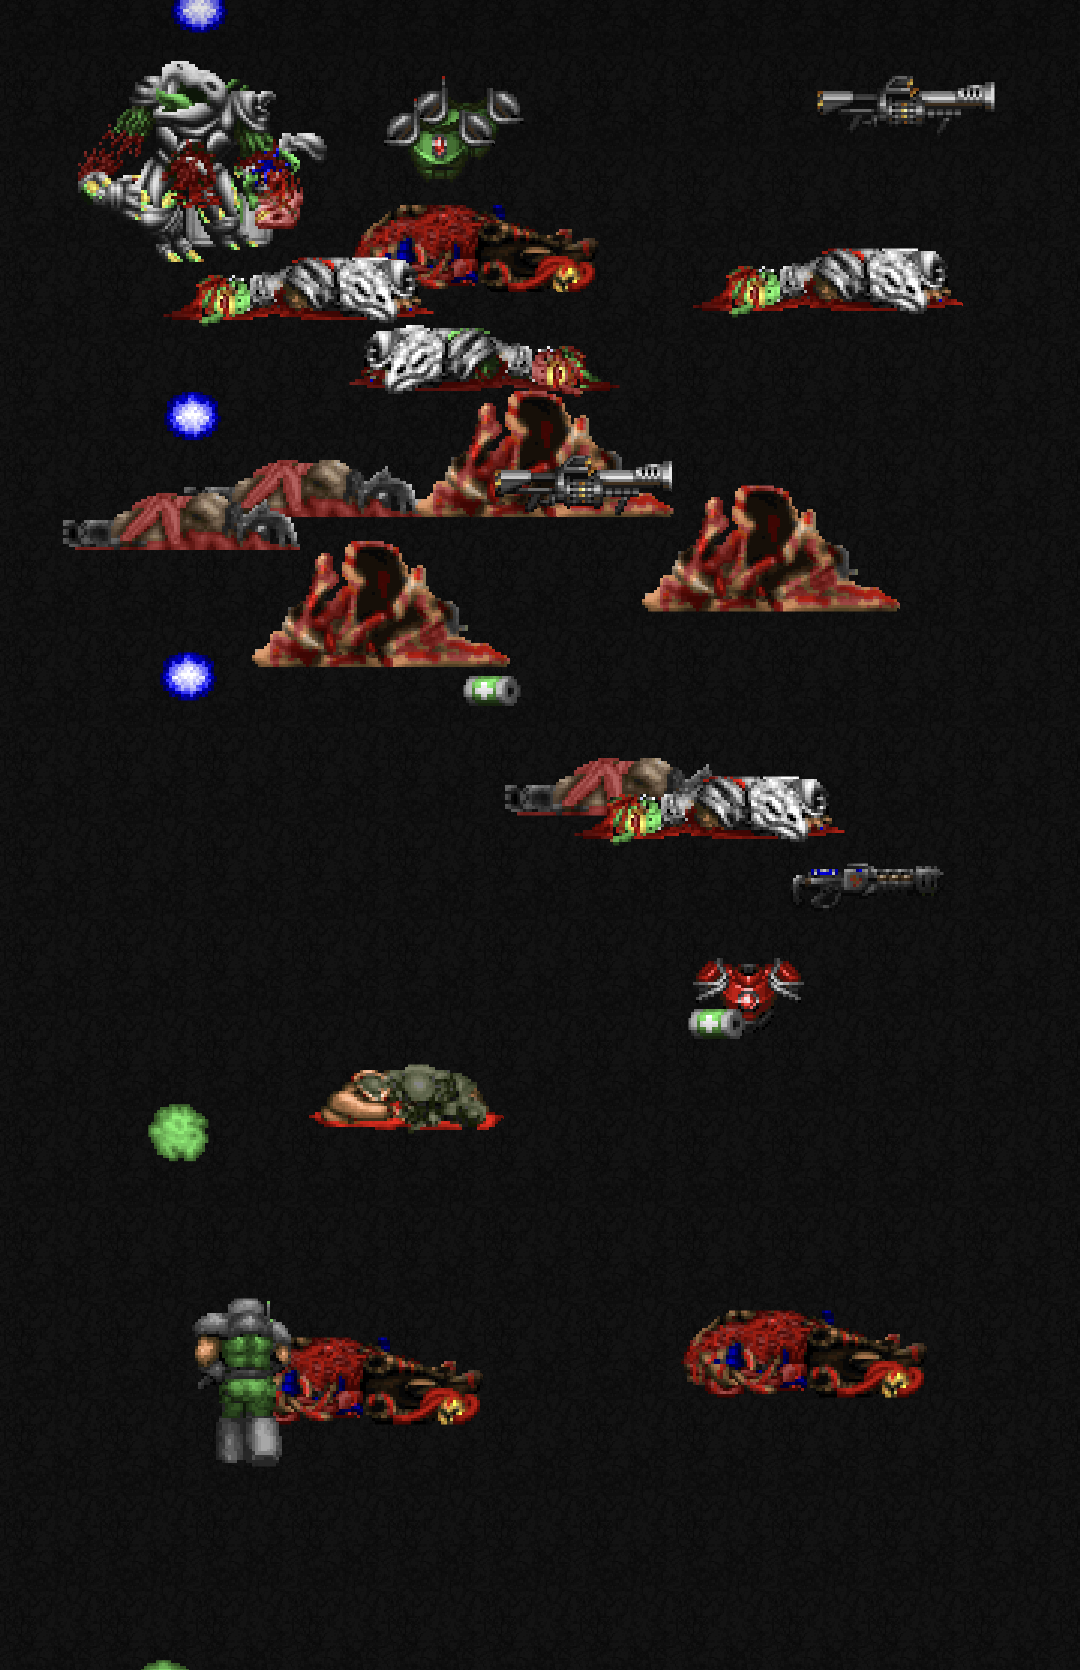
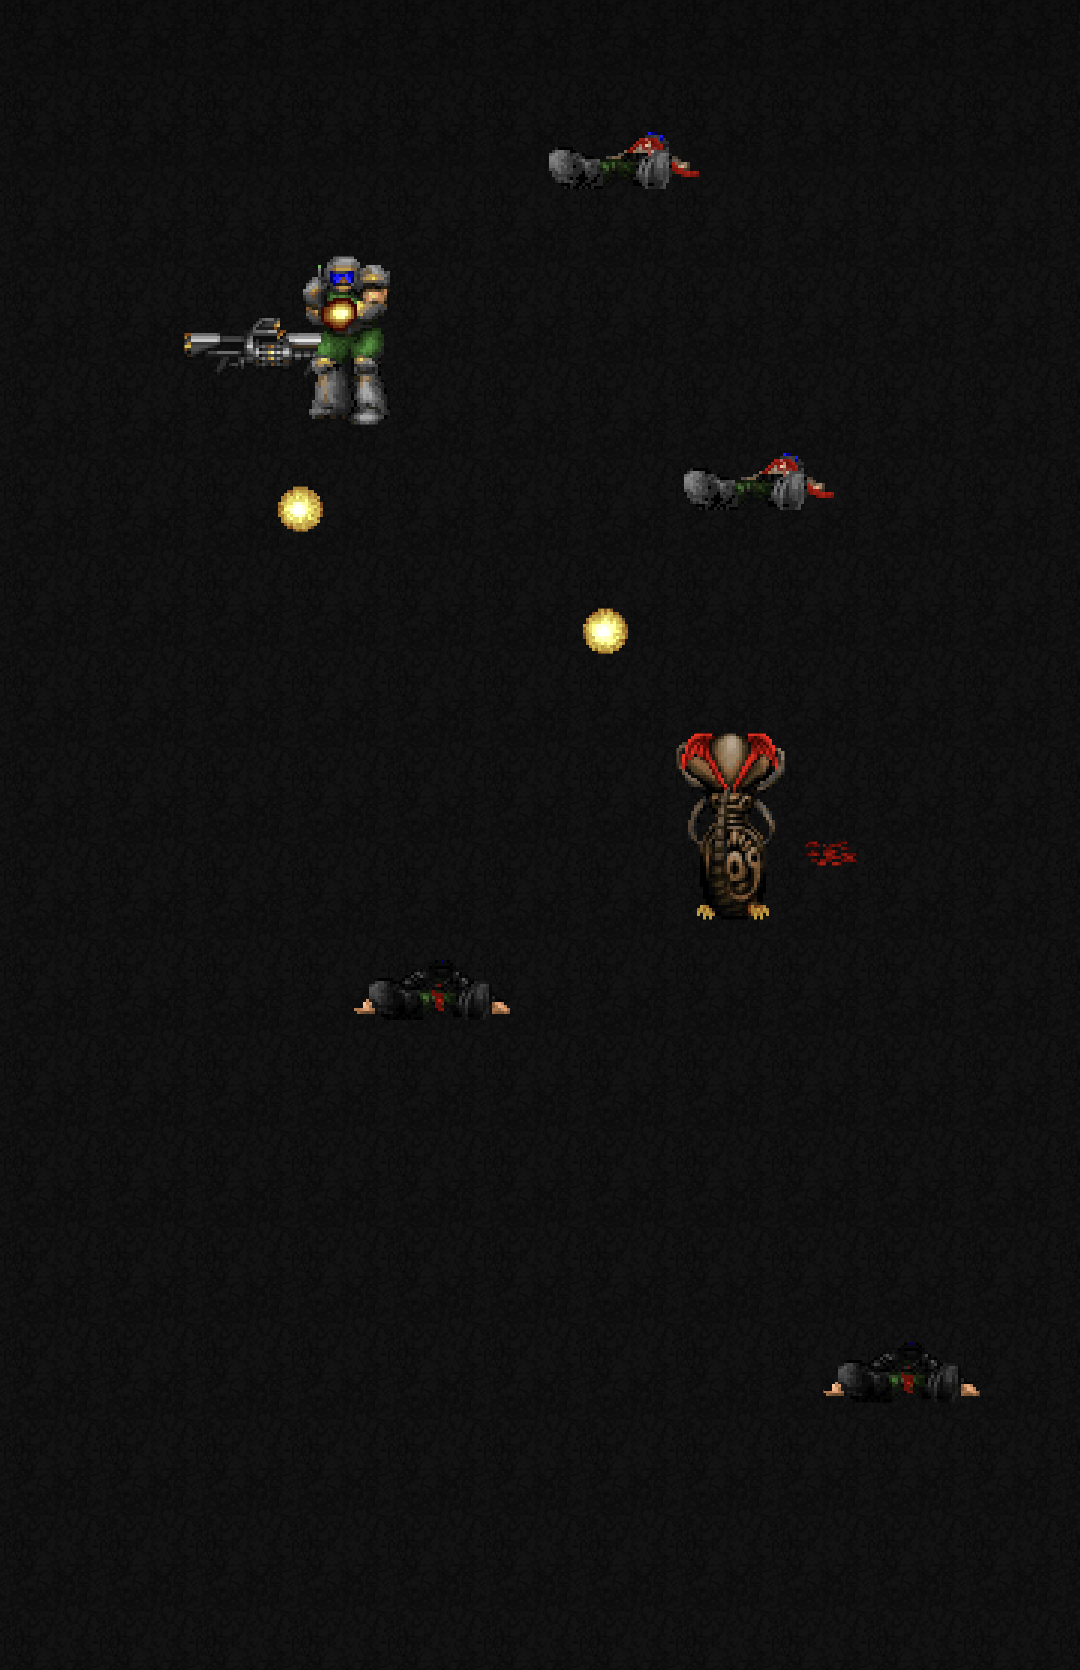
The name in the pictures is the name of the app
The screenshots still showed "Freedoom Live Wallpaper", version 0.6, which was
the one place the old name survived where anyone would actually look. Both are
re-shot from the phone at their previous sizes, and the README alt text says
what the new scene shows.

NOTICE.md claimed more derivation than is left: the rebalance replaced health,
missile damage and the random damage formulas with figures of ours, so the
table listed as taken what is no longer there. It now lists what is taken and
says plainly what is not.

The last three log tags and the engine class still read FreedoomLW.

diff --git a/app/src/main/java/io/github/massimonastasi/proflw/ProfWallpaperService.kt b/app/src/main/java/io/github/massimonastasi/proflw/ProfWallpaperService.kt
@@ -1,4 +1,4 @@
-/*
+/*
  * Prof Live Wallpaper
  * Copyright (C) 2026 Massimo Nastasi
  *
@@ -43,7 +43,7 @@ import kotlin.math.abs
 const val TICRATE = 35
 
 
-private const val TAG = "FreedoomLW"
+private const val TAG = "ProfLW"
 
 class ProfWallpaperService : WallpaperService() {
 
@@ -66,7 +66,7 @@ class ProfWallpaperService : WallpaperService() {
      *
      * Health is the blue and armour the green, matching PALETTE_HEALTH and PALETTE_ARMOR.
      * These two defaults used to hold the opposite pair, which no drawn frame could reveal
-     * because the readout is skipped entirely when the numerals fail to load — wrong in a
+     * because the readout is skipped entirely when the numerals fail to load â€” wrong in a
      * place that never shows is still wrong, and it would have surfaced the moment anything
      * else started using them.
      */
@@ -107,7 +107,7 @@ class ProfWallpaperService : WallpaperService() {
      * Loads the user's IWAD when there is one, and the bundled assets otherwise.
      *
      * Everything the scene draws comes from the same file, so swapping it swaps the whole
-     * look at once — sprites, palette, floors and the readout numerals. That is why nothing
+     * look at once â€” sprites, palette, floors and the readout numerals. That is why nothing
      * here has a per-IWAD compatibility table: the file declares what it contains and the
      * loader takes what it finds.
      */
@@ -205,7 +205,7 @@ class ProfWallpaperService : WallpaperService() {
      * the contrast behind the icons stays put.
      *
      * Each falls back down a shared chain, because a user-supplied WAD need not carry them
-     * all — a WAD with only one usable flat simply shows the same ground at every level.
+     * all â€” a WAD with only one usable flat simply shows the same ground at every level.
      */
     private fun loadFloors(w: WadFile): Array<Bitmap?> {
         // Chosen by measuring this WAD's own flats rather than by asking for names it may
@@ -248,9 +248,9 @@ class ProfWallpaperService : WallpaperService() {
         armorColor = w.paletteColor(GameData.PALETTE_ARMOR)
     }
 
-    override fun onCreateEngine(): Engine = FreedoomEngine()
+    override fun onCreateEngine(): Engine = ProfEngine()
 
-    private inner class FreedoomEngine : WallpaperService.Engine() {
+    private inner class ProfEngine : WallpaperService.Engine() {
 
         // ponytail: a Handler on the wallpaper process main looper, not a dedicated
         // thread. The process is ours alone, so no synchronisation with surfaceDestroyed
@@ -284,7 +284,7 @@ class ProfWallpaperService : WallpaperService() {
          * Without this the constants are raw pixels: on a 560 dpi phone the marine would be
          * two thirds the size he is here, and on a 240 dpi tablet half again as large. The
          * world, measured in map units, is then free to vary with the physical size of the
-         * screen, which is what should happen — a bigger display shows more of the scene
+         * screen, which is what should happen â€” a bigger display shows more of the scene
          * rather than the same scene magnified.
          *
          * The reference is the density these values were tuned on.
@@ -496,7 +496,7 @@ class ProfWallpaperService : WallpaperService() {
 
             // Do not reach for setFixedSize here. Drawing onto a half-resolution surface and
             // letting the compositor scale it up saved two thirds of the graphics memory,
-            // and it worked perfectly in the picker preview — but a real wallpaper engine
+            // and it worked perfectly in the picker preview â€” but a real wallpaper engine
             // throws UnsupportedOperationException, "Wallpapers currently only support
             // sizing from layout". The preview and the live engine are different surface
             // paths, and only the live one enforces this.
@@ -653,7 +653,7 @@ class ProfWallpaperService : WallpaperService() {
             drawReadout(canvas, s)
 
             // Marine death: the screen washes red. The colour is not invented, it is
-            // PLAYPAL palette 8, the original game's damage flash — but at full strength it
+            // PLAYPAL palette 8, the original game's damage flash â€” but at full strength it
             // was an unreadable red wall every time he died, so it only ever reaches
             // DEATH_MAX_ALPHA. A wallpaper has to stay usable even at its most dramatic.
             val fade = s.deathFade
@@ -911,7 +911,7 @@ class ProfWallpaperService : WallpaperService() {
         /**
          * Scene zoom: how many pixels one map unit is worth.
          *
-         * Speeds stay the original ones *in map units* — this value only decides how fast
+         * Speeds stay the original ones *in map units* â€” this value only decides how fast
          * they appear, i.e. how wide a slice of the world is framed.
          */
 
@@ -958,7 +958,7 @@ class ProfWallpaperService : WallpaperService() {
          *
          * Fully opaque: the ramp now ends on a solid screen rather than a translucent one.
          * That is only bearable because the colour underneath is a dark 115,0,0 from the low
-         * half of the palette's red ramp — at the glaring 255,25,25 this started from, a
+         * half of the palette's red ramp â€” at the glaring 255,25,25 this started from, a
          * full-opacity wash would have been a wall.
          *
          * It is momentary. The peak lands on the last frame of the fade, and the scene

diff --git a/app/src/main/java/io/github/massimonastasi/proflw/WadStore.kt b/app/src/main/java/io/github/massimonastasi/proflw/WadStore.kt
@@ -1,4 +1,4 @@
-/*
+/*
  * Prof Live Wallpaper
  * Copyright (C) 2026 Massimo Nastasi
  *
@@ -35,13 +35,13 @@ import java.nio.channels.FileChannel
  * is nothing wrong with reading one the user already owns.
  *
  * Copied rather than read through the content resolver because the loader maps the file and
- * seeks around it constantly — random access through a ContentResolver stream is slow, and a
+ * seeks around it constantly â€” random access through a ContentResolver stream is slow, and a
  * document URI's permission can be revoked between one launch and the next.
  */
 object WadStore {
 
     private const val DIR = "wads"
-    private const val TAG = "FreedoomLW"
+    private const val TAG = "ProfLW"
 
     private const val KEY_NAME = "wad_name"
     private const val KEY_FORMAT = "wad_format"

diff --git a/app/src/main/java/io/github/massimonastasi/proflw/PhotoStore.kt b/app/src/main/java/io/github/massimonastasi/proflw/PhotoStore.kt
@@ -1,4 +1,4 @@
-/*
+/*
  * Prof Live Wallpaper
  * Copyright (C) 2026 Massimo Nastasi
  *
@@ -37,7 +37,7 @@ object PhotoStore {
     private const val KEY_NAME = "photo_name"
 
     private const val NAME = "background.jpg"
-    private const val TAG = "FreedoomLW"
+    private const val TAG = "ProfLW"
 
     fun file(context: Context): File? =
         File(context.filesDir, NAME).takeIf { it.isFile && it.length() > 0 }

diff --git a/NOTICE.md b/NOTICE.md
@@ -39,11 +39,18 @@ the original does:
 |---|---|
 | `rndtable[]`, the 256-byte pseudo-random table | `m_random.c` |
 | `xspeed[]` / `yspeed[]` direction tables, `opposite[]` | `p_enemy.c` |
-| Creature speed, health, radius, pain chance, reaction time | `info.c`, `mobjinfo[]` |
+| Creature speed, radius and pain chance | `info.c`, `mobjinfo[]` |
 | Animation frame counts and durations | `info.c`, `states[]` |
-| Missile speeds and damage | `info.c` |
-| Armour absorption, ammunition amounts, skill-level effects | `p_inter.c`, `g_game.c`, `p_mobj.c` |
-| Damage formulas for shots and melee | `p_pspr.c`, `p_enemy.c` |
+| Missile speeds | `info.c` |
+| Armour absorption, ammunition amounts and limits | `p_inter.c` |
+| The skill names, and `G_PlayerReborn` handing back the pistol | `g_game.c` |
+| Fixed-point movement, friction and stop speed | `p_mobj.c` |
+
+**What is not taken.** Health and damage are **ours**, not that source's: the figures in
+[docs/BALANCE.md](docs/BALANCE.md) were chosen for a wallpaper and replace `mobjinfo`'s health,
+the missile damage, and the random damage formulas of `p_pspr.c` and `p_enemy.c`, which are no
+longer reproduced in any form. The skill levels are names only; none of the difficulty scaling
+`g_game.c` applies is here.
 
 **Every one of these carries a comment naming the file and symbol it came from.** Those
 comments are not decoration: they are the attribution this licence requires and the
@@ -93,9 +100,11 @@ Freedoom's own `FREEDOOM` identifying lump, so what ships stays recognisable as 
 > LIABILITY, OR TORT (INCLUDING NEGLIGENCE OR OTHERWISE) ARISING IN ANY WAY OUT OF THE USE
 > OF THIS SOFTWARE, EVEN IF ADVISED OF THE POSSIBILITY OF SUCH DAMAGE.
 
-The third condition covers **endorsement and promotion**, not attribution. Crediting
-Freedoom is required; naming the published application after it requires written
-permission, which is a publication-time decision and does not affect this repository.
+The third condition covers **endorsement and promotion**, not attribution. Crediting Freedoom
+is required, and is done throughout; naming a derived product after it is what the condition
+forbids without written permission. This application is called **Prof Live Wallpaper** and its
+repository `prof-live-wallpaper`: the Freedoom name appears here only to say whose artwork this
+is, which is attribution and is required, never in the product's own name.
 
 ---
 

diff --git a/README.md b/README.md
@@ -9,7 +9,7 @@ and neither may anything derived from it. See [NOTICE.md](NOTICE.md).
 
 | The wallpaper | The settings |
 |---|---|
-| <img src="docs/images/scene.png" width="320" alt="A marine fighting among corpses, blood and dropped weapons"> | <img src="docs/images/settings.png" width="320" alt="The settings screen"> |
+| <img src="docs/images/scene.png" width="320" alt="A marine firing a chaingun at a creature, two shots in flight, corpses on the floor"> | <img src="docs/images/settings.png" width="320" alt="The settings screen"> |
 
 ## What it is built from
 
